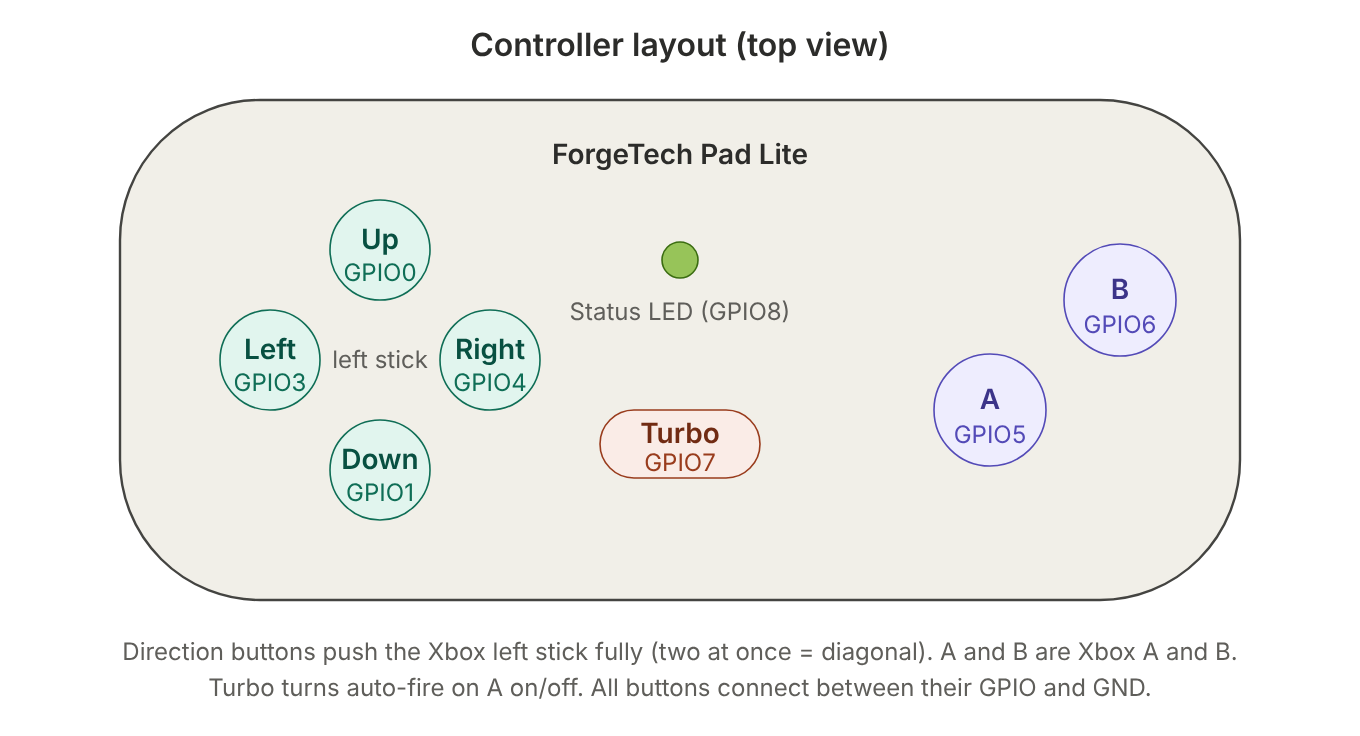
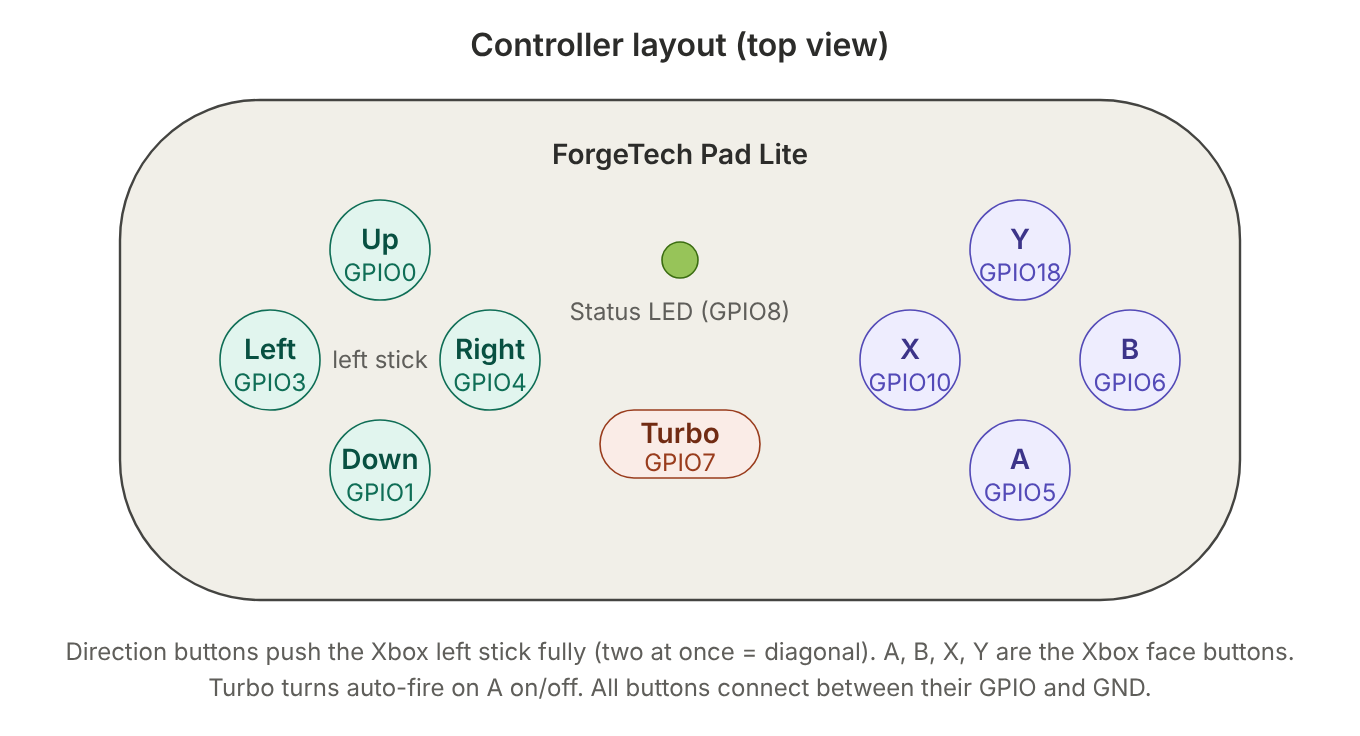
Add X (GPIO10) and Y (GPIO18) buttons; firmware 1.4; update diagrams and README
Claude-Session: https://claude.ai/code/session_019ijToHCXtgcoG7qwjb4b4o

Changed region(s): [[0.0309, 0.875, 0.9574, 0.9062], [0.6176, 0.4688, 0.8029, 0.7188], [0.7103, 0.3125, 0.8647, 0.5625]]

diff --git a/src/main.cpp b/src/main.cpp
@@ -1,4 +1,4 @@
-// ForgeTech Pad Lite - ESP32-C3 BLE Xbox controller: A/B + D-pad + auto-fire (turbo)
+// ForgeTech Pad Lite - ESP32-C3 BLE Xbox controller: A/B/X/Y + left stick + auto-fire (turbo) on A
 // Emulates an Xbox Series X Wireless Controller (XInput, VID 0x045E / PID 0x0B13), so it works on
 // macOS (Game Controller framework), Windows, and Windows in Parallels (shared as "Virtual Xbox Controller").
 // Each input = physical button OR serial command (see README.md)
@@ -7,7 +7,7 @@
 #include "pins.h"
 
 #define DEVICE_NAME "ForgeTech Pad Lite"
-#define FW_VERSION  "1.3"   // 1.3 = ForgeTech branding (BT name "ForgeTech Pad Lite"); 1.2 = self-firing auto-fire
+#define FW_VERSION  "1.4"   // 1.4 = X/Y buttons; 1.3 = ForgeTech branding; 1.2 = self-firing auto-fire
 BleGamepad gamepad(DEVICE_NAME, "ForgeTech", 100);
 
 const uint8_t  DEBOUNCE_MS     = 20;
@@ -25,15 +25,15 @@ struct Debounced {
   }
 };
 
-// 2 buttons + 4 d-pad directions. held/tapUntil are set from Serial.
+// 4 face buttons + 4 direction buttons. held/tapUntil are set from Serial.
 struct Input { Debounced btn; const char* name; bool held; uint32_t tapUntil; bool state; };
 Input inputs[] = {
-  {{PIN_BTN_A}, "a"}, {{PIN_BTN_B}, "b"},
+  {{PIN_BTN_A}, "a"}, {{PIN_BTN_B}, "b"}, {{PIN_BTN_X}, "x"}, {{PIN_BTN_Y}, "y"},
   {{PIN_UP}, "up"}, {{PIN_DOWN}, "down"}, {{PIN_LEFT}, "left"}, {{PIN_RIGHT}, "right"},
 };
 const uint8_t NUM_IN = sizeof(inputs) / sizeof(inputs[0]);
-const uint8_t NUM_BTN = 2;   // first 2 inputs are buttons (BUTTON_1 = Xbox A, BUTTON_2 = Xbox B)
-enum { A = 0, B, UP, DOWN, LEFT, RIGHT };
+const uint8_t NUM_BTN = 4;   // first 4 inputs are buttons: BUTTON_1..4 = Xbox A, B, X, Y
+enum { A = 0, B, X, Y, UP, DOWN, LEFT, RIGHT };
 
 Debounced turboBtn = {PIN_TURBO};
 bool turbo = false;
@@ -43,7 +43,7 @@ bool isPressed(const Input& in) {
   return in.btn.stable || in.held || (int32_t)(in.tapUntil - millis()) > 0;
 }
 
-// Input by name (a, up...) or button number (1-2); -1 if unknown
+// Input by name (a, up...) or button number (1-4); -1 if unknown
 int findInput(const char* s) {
   if (!s) return -1;
   for (uint8_t i = 0; i < NUM_IN; i++) if (!strcasecmp(s, inputs[i].name)) return i;
@@ -86,6 +86,8 @@ void stickXY(int16_t& x, int16_t& y) {
 void sendState() {
   inputs[A].state ? gamepad.press(BUTTON_1) : gamepad.release(BUTTON_1);   // Xbox A
   inputs[B].state ? gamepad.press(BUTTON_2) : gamepad.release(BUTTON_2);   // Xbox B
+  inputs[X].state ? gamepad.press(BUTTON_3) : gamepad.release(BUTTON_3);   // Xbox X
+  inputs[Y].state ? gamepad.press(BUTTON_4) : gamepad.release(BUTTON_4);   // Xbox Y
   int16_t x, y;
   stickXY(x, y);
   gamepad.setLeftThumb(x, y);
@@ -103,7 +105,7 @@ void printHelp() {
     "  turbo [on|off]       auto-fire: A fires by itself; hold A = steady hold (no argument = toggle)\n"
     "  reset                release everything\n"
     "  status               show what is pressed\n"
-    "  names: a b (or 1-2), up down left right\n"
+    "  names: a b x y (or 1-4), up down left right\n"
     "  example: turbo on   (then: press a / release a)"));
 }
 

diff --git a/docs/src/gen.py b/docs/src/gen.py
@@ -70,13 +70,13 @@ for (cx, cy, lab, gp) in [(190, 125, "Up", "GPIO0"), (190, 235, "Down", "GPIO1")
     b += f'<g class="teal"><circle cx="{cx}" cy="{cy}" r="25" stroke-width="0.8"/><text class="th" x="{cx}" y="{cy-5}" text-anchor="middle" dominant-baseline="central">{lab}</text><text class="ts" x="{cx}" y="{cy+11}" text-anchor="middle" dominant-baseline="central">{gp}</text></g>'
 b += '<text class="ts" x="190" y="184" text-anchor="middle">left stick</text>'
 # action buttons
-b += '<g class="purple"><circle cx="560" cy="150" r="28" stroke-width="0.8"/><text class="th" x="560" y="145" text-anchor="middle" dominant-baseline="central">B</text><text class="ts" x="560" y="162" text-anchor="middle" dominant-baseline="central">GPIO6</text></g>'
-b += '<g class="purple"><circle cx="495" cy="205" r="28" stroke-width="0.8"/><text class="th" x="495" y="200" text-anchor="middle" dominant-baseline="central">A</text><text class="ts" x="495" y="217" text-anchor="middle" dominant-baseline="central">GPIO5</text></g>'
+for (cx, cy, lab, gp) in [(510, 125, "Y", "GPIO18"), (510, 235, "A", "GPIO5"), (455, 180, "X", "GPIO10"), (565, 180, "B", "GPIO6")]:
+    b += f'<g class="purple"><circle cx="{cx}" cy="{cy}" r="25" stroke-width="0.8"/><text class="th" x="{cx}" y="{cy-5}" text-anchor="middle" dominant-baseline="central">{lab}</text><text class="ts" x="{cx}" y="{cy+11}" text-anchor="middle" dominant-baseline="central">{gp}</text></g>'
 # turbo + LED
 b += '<g class="coral"><rect x="300" y="205" width="80" height="34" rx="17" stroke-width="0.8"/><text class="th" x="340" y="217" text-anchor="middle" dominant-baseline="central">Turbo</text><text class="ts" x="340" y="231" text-anchor="middle" dominant-baseline="central">GPIO7</text></g>'
 b += '<circle cx="340" cy="130" r="9" fill="#97C459" stroke="#3B6D11" stroke-width="0.8"/>'
 b += '<text class="ts" x="340" y="160" text-anchor="middle">Status LED (GPIO8)</text>'
-b += ('<text class="ts" x="340" y="330" text-anchor="middle">Direction buttons push the Xbox left stick fully (two at once = diagonal). A and B are Xbox A and B.</text>'
+b += ('<text class="ts" x="340" y="330" text-anchor="middle">Direction buttons push the Xbox left stick fully (two at once = diagonal). A, B, X, Y are the Xbox face buttons.</text>'
       '<text class="ts" x="340" y="348" text-anchor="middle">Turbo turns auto-fire on A on/off. All buttons connect between their GPIO and GND.</text>')
 svg("layout", 680, 368, "Controller layout (top view)", b)
 

diff --git a/include/pins.h b/include/pins.h
@@ -2,9 +2,12 @@
 // ESP32-C3-MINI-1 dev board (CH340K COM port, RGB LED on GPIO8)
 // All inputs: wire to GND, internal pull-ups used
 
-// Buttons (GPIO10 is free)
+// Face buttons
 #define PIN_BTN_A   5
 #define PIN_BTN_B   6
+#define PIN_BTN_X   10
+#define PIN_BTN_Y   18   // native USB D- pin used as GPIO: the "ESP32-C3 USB" port stops working,
+                         // upload/Serial via the CH340K COM port is unaffected. GPIO19 is still free.
 
 // Direction buttons (reported as the Xbox LEFT analog stick)
 #define PIN_UP      0

diff --git a/README.md b/README.md
@@ -2,7 +2,7 @@
 
 **A wireless Bluetooth Xbox-style controller built on an ESP32-C3. By ForgeTech, Lahore.**
 
-ForgeTech Pad Lite is a small game controller with **4 direction buttons, A, B and a Turbo (auto-fire) button**.
+ForgeTech Pad Lite is a small game controller with **4 direction buttons, A, B, X, Y and a Turbo (auto-fire) button**.
 The ESP32-C3 pretends to be an **Xbox Series X Wireless Controller** over Bluetooth Low Energy, so computers treat it
 like a real Xbox pad: no driver, no app. The main goal: **one controller that works on a Mac and in Windows running in
 Parallels at the same time.**
@@ -42,7 +42,7 @@ Parallels at the same time.**
 | Qty | Part | Notes |
 |---|---|---|
 | 1 | ESP32-C3-MINI-1 dev board | the version with CH340K USB-serial, RGB LED on GPIO8 |
-| 7 | Push buttons (tactile switch, e.g. 6×6 mm) | Up, Down, Left, Right, A, B, Turbo |
+| 9 | Push buttons (tactile switch, e.g. 6×6 mm) | Up, Down, Left, Right, A, B, X, Y, Turbo |
 | – | Hook-up wire | one wire per button + a shared GND wire |
 | 1 | USB cable | for flashing and power |
 
@@ -56,6 +56,8 @@ No resistors are needed: the ESP32's internal pull-up resistors are used.
 | Up / Down / Left / Right | **Left analog stick** pushed fully in that direction. Two buttons together = diagonal. Opposite buttons cancel out. |
 | A | Xbox **A** (with auto-fire, see below) |
 | B | Xbox **B** |
+| X | Xbox **X** |
+| Y | Xbox **Y** |
 | Turbo | Not sent to the computer: switches auto-fire on A on/off |
 
 ## Wiring
@@ -71,6 +73,8 @@ Every button has **two legs**: one leg goes to its **GPIO pin**, the other leg g
 | Right | GPIO4 | right header, pin 11 |
 | A | GPIO5 | right header, pin 10 |
 | B | GPIO6 | right header, pin 9 |
+| X | GPIO10 | left header, pin 11 |
+| Y | GPIO18 | right header, pin 13 (native USB D- pin, see note below) |
 | Turbo | GPIO7 | right header, pin 8 |
 | GND (all buttons) | GND | left pin 15 / right pin 15 (any GND works) |
 | Status LED | GPIO8 | onboard RGB LED, nothing to wire |
@@ -81,7 +85,8 @@ pin reads LOW = pressed.
 **Pins kept free on purpose:**
 - **GPIO2, GPIO8, GPIO9** are *strapping pins*: they decide how the chip boots. A button held on them during power-up can stop the board from starting normally.
 - **GPIO20, GPIO21** are used by the CH340K chip for USB upload and the Serial Monitor.
-- **GPIO10, GPIO18, GPIO19** are still free for extra buttons (see [Customising](#customising)).
+- **GPIO18** (used for Y) is the native USB D- pin. Using it as a button turns off the board's second USB port ("ESP32-C3 USB"). Upload and the Serial Monitor go through the **COM** (CH340K) port, which is not affected.
+- **GPIO19** is still free for one more button (see [Customising](#customising)).
 
 ## How it works
 ![Firmware main loop](docs/firmware-flow.png)
@@ -93,7 +98,7 @@ pin reads LOW = pressed.
 3. **Turbo button:** each press toggles auto-fire on or off.
 4. **Connected?** Until a computer connects, the LED blinks blue and nothing is sent.
 5. **Work out the controller state:**
-   - A and B become Xbox buttons 1 and 2. When auto-fire is ON, A follows the auto-fire rule below.
+   - A, B, X, Y become Xbox buttons 1–4 (the library maps them to Xbox A, B, X, Y). When auto-fire is ON, A follows the auto-fire rule below.
    - The direction buttons become the left stick: full value (±32767) on one axis, or 70.7 % on both axes for a diagonal, so the stick stays on a circle like a real thumbstick.
 6. **Send:** if anything changed since last time, one Bluetooth report is sent. If nothing changed, nothing is sent (saves battery and radio time).
 
@@ -112,7 +117,7 @@ not a real Xbox controller. Its firmware is changed only by flashing from Platfo
 | You release A (Turbo still ON) | Auto-fire **continues** |
 | Press Turbo again | Auto-fire **stops**, LED back to green |
 
-- Auto-fire works only on **A**. B and the stick are never auto-fired.
+- Auto-fire works only on **A**. B, X, Y and the stick are never auto-fired.
 - Auto-fire is always **OFF after a restart**.
 - Auto-fire only runs while a computer is connected.
 
@@ -162,7 +167,7 @@ Monitor says so**, so you can test before soldering anything. Several commands c
 | `status` | show firmware version, connection, auto-fire state, reports sent and what is pressed |
 | `help` | list the commands |
 
-Names: `a`, `b` (or `1`, `2`), `up`, `down`, `left`, `right`. Example: `press up; press right` = stick diagonally up-right.
+Names: `a`, `b`, `x`, `y` (or `1`–`4`), `up`, `down`, `left`, `right`. Example: `press up; press right` = stick diagonally up-right.
 
 ## Customising
 All settings are near the top of the two source files:
@@ -174,10 +179,10 @@ All settings are near the top of the two source files:
 | Bluetooth name | `DEVICE_NAME` in `src/main.cpp` | `ForgeTech Pad Lite` |
 | Button pins | `include/pins.h` | see [Wiring](#wiring) |
 
-**Adding X / Y (or more buttons):** wire the new button to a free pin (GPIO10, GPIO18 or GPIO19), add it to
+**Adding more buttons (e.g. Start, LB, RB):** wire the new button to the last free pin, **GPIO19**, add it to
 `pins.h` and to the `inputs[]` list in `main.cpp`, then press/release it in `sendState()`.
-In this library's Xbox mode, `BUTTON_3` = X and `BUTTON_4` = Y.
-Note: using GPIO18/19 disables the board's second USB port ("ESP32-C3 USB"); upload through the COM port still works.
+In this library's Xbox mode, `BUTTON_5` = LB, `BUTTON_6` = RB, `BUTTON_9` = View/Select, `BUTTON_10` = Menu/Start.
+Note: GPIO19 is the native USB D+ pin (like GPIO18 used for Y), so the board's second USB port ("ESP32-C3 USB") is already out of use; upload through the COM port still works.
 
 ## Troubleshooting
 | Problem | Fix |
@@ -187,7 +192,7 @@ Note: using GPIO18/19 disables the board's second USB port ("ESP32-C3 USB"); upl
 | Mac says "firmware out of date" | Harmless. Forget the device and pair again so the Mac reads the new version. Do not try to update it. |
 | A button does nothing | Check that its second leg goes to GND. Use `status` in the Serial Monitor while pressing it. |
 | Board does not start / stuck in flashing mode | Make sure nothing is wired to GPIO2, GPIO8 or GPIO9. |
-| Auto-fire not working | 1) Flash the latest firmware: the Serial Monitor must show `firmware 1.3` (or newer) at start-up (older versions only fired while A was held). 2) LED must be **orange**. 3) Type `status` twice a second apart: `reports-sent` should climb by about 20 per second while auto-fire runs. 4) Watch button A in `joy.cpl` (Windows): it should blink. |
+| Auto-fire not working | 1) Flash the latest firmware: the Serial Monitor must show `firmware 1.4` (or newer) at start-up (older versions only fired while A was held). 2) LED must be **orange**. 3) Type `status` twice a second apart: `reports-sent` should climb by about 20 per second while auto-fire runs. 4) Watch button A in `joy.cpl` (Windows): it should blink. |
 | Upload fails | Use the **COM** USB port; close the Serial Monitor before uploading. |
 
 ## Project files
